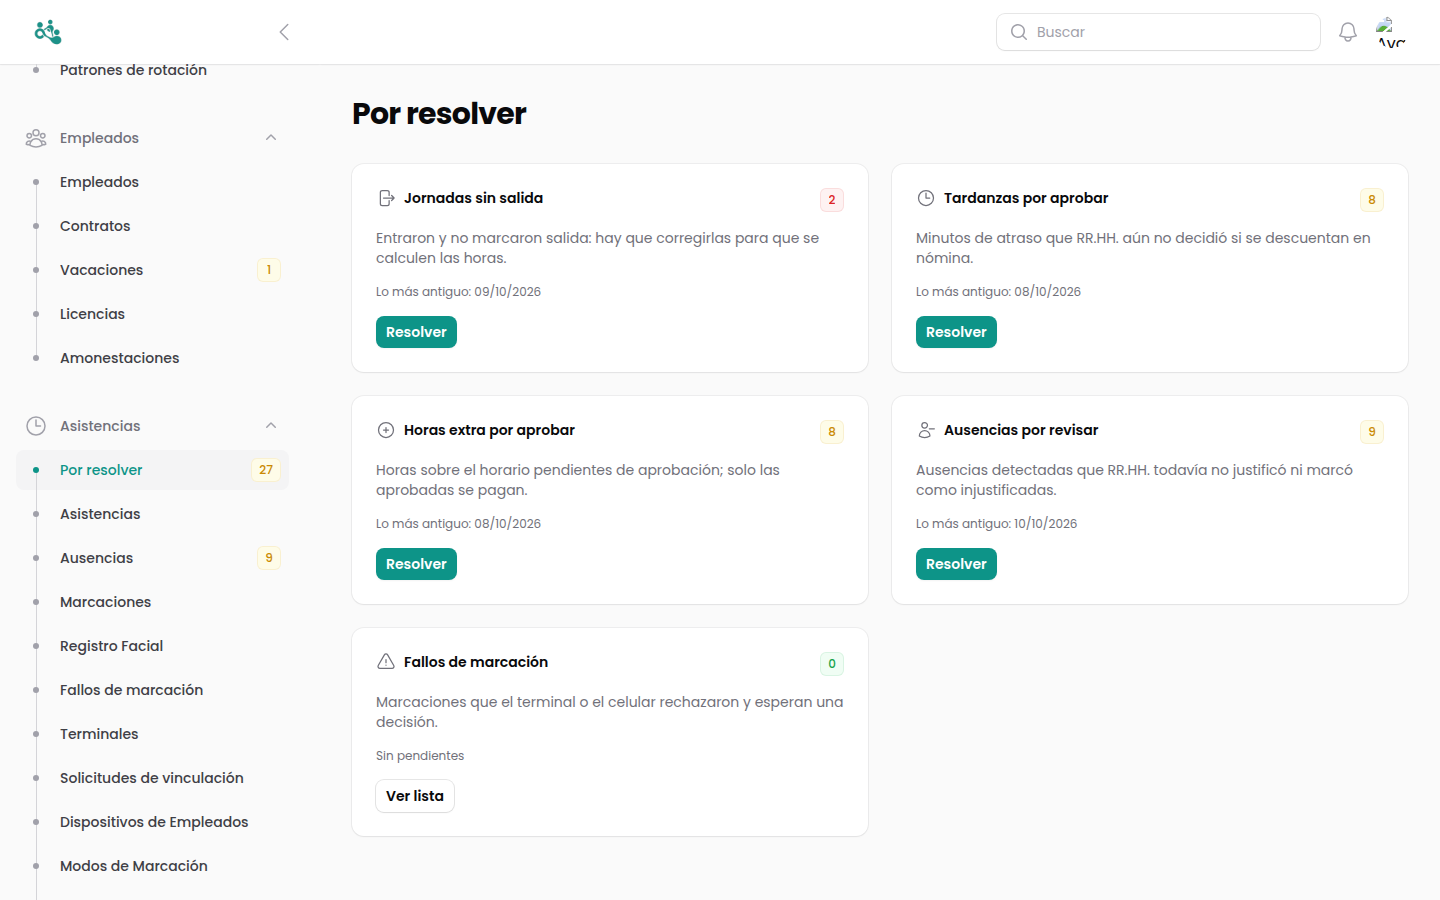
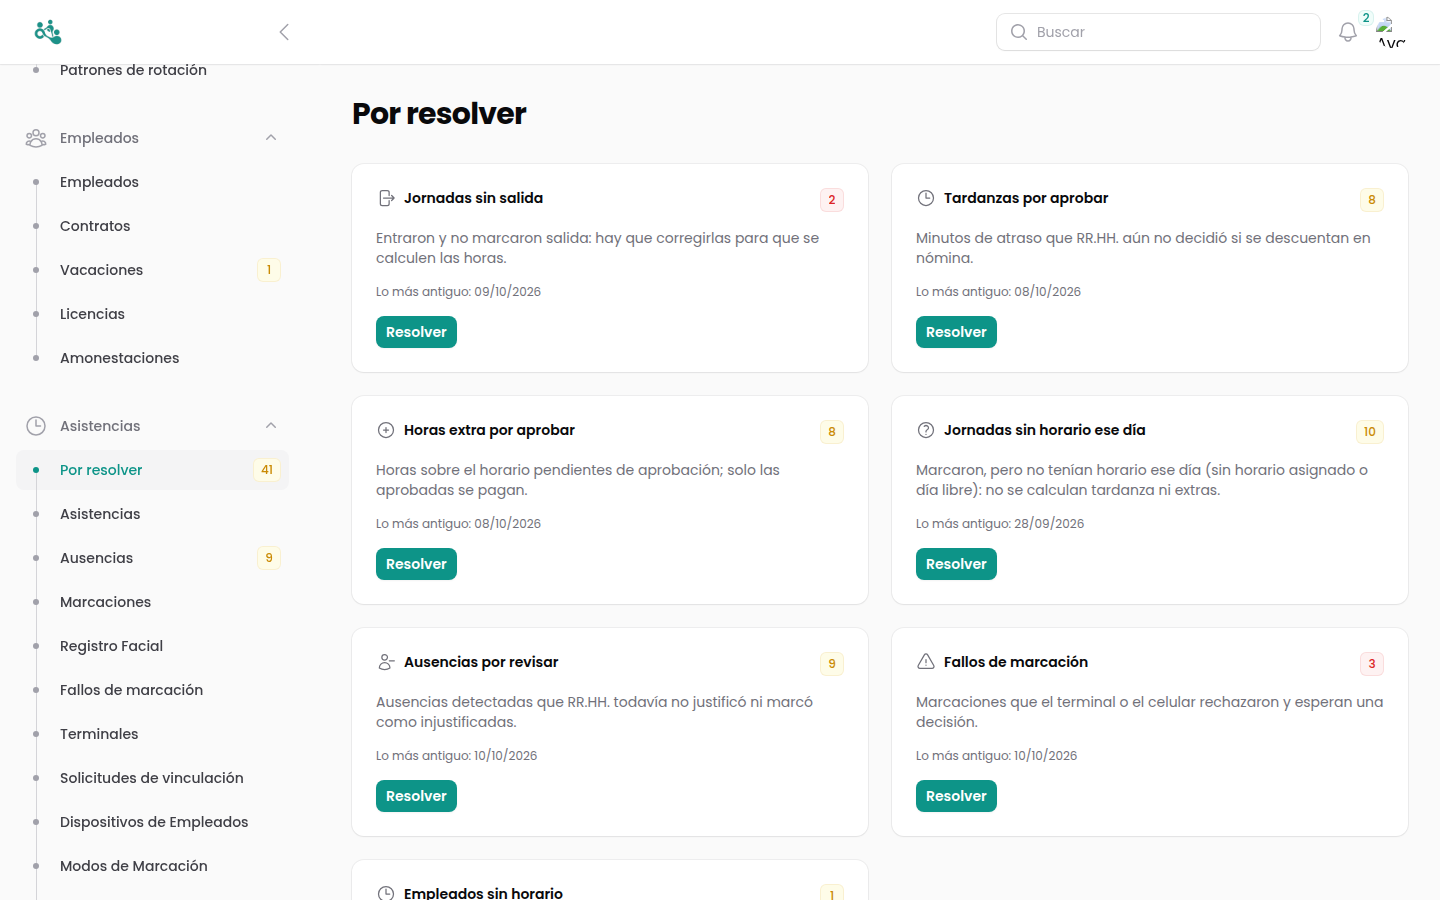
docs(horarios): capturas de las funciones nuevas y de Por resolver
Nuevas: formulario con tipo sugerido y aviso de pocos días, Duplicar y Asignar horario con sugerencia. Actualizada: Por resolver con la tarjeta de jornadas sin horario ese día.

Claude-Session: https://claude.ai/code/session_016uALGGZd5ufPtjAioqAnnP

diff --git a/resources/docs/03-horarios.md b/resources/docs/03-horarios.md
@@ -54,9 +54,13 @@ El sistema descuenta automáticamente los minutos de descanso al calcular las ho
 - **Tipo de jornada sugerido:** debajo del campo se indica el tipo que corresponde según las horas cargadas (diurno si no pasa de las 20:00 ni empieza antes de las 06:00; nocturno si algún día tiene 3,5 horas o más en la franja 20:00–06:00; mixto en el resto). Es solo una sugerencia: el tipo se elige a mano.
 - **Pocos días activos:** si el horario tiene uno o dos días activos, aparece un aviso. Quien lo tenga asignado se considera libre los demás días, así que un turno que se reparte en varios horarios por día conviene cargarlo en uno solo con todos sus días.
 
+![Formulario de un horario con el tipo de jornada sugerido y el aviso de pocos días activos](/docs-images/03-horario-formulario.png)
+
 ### Duplicar un horario
 
 La acción **Duplicar** (en el listado y en el detalle del horario) copia los días, horas y descansos con un nombre nuevo, para partir de un horario parecido en vez de armarlo desde cero. No copia los empleados asignados. Requiere permiso para crear horarios.
+
+![Ventana Duplicar horario con el nombre propuesto](/docs-images/03-horario-duplicar.png)
 
 ### Eliminar un horario
 
@@ -87,6 +91,8 @@ Las ausencias no se generan hacia atrás: solo se crean automáticamente las de 
 ### Horario sugerido según las marcaciones
 
 Al abrir **Asignar horario** sobre un empleado (fila del listado de **Empleados**), si tiene al menos 3 jornadas completas (con entrada y salida) en los últimos 30 días, el sistema compara sus horas reales con los días activos de cada horario y **preselecciona el que mejor coincide**, siempre que el desvío promedio sea de 60 minutos o menos. La descripción de la ventana indica cuántas jornadas se usaron. Es solo una ayuda: se puede elegir otro horario antes de confirmar, y nunca se asigna nada sin confirmar. Un horario que tiene libres los días en que el empleado trabajó se penaliza.
+
+![Ventana Asignar horario con el horario sugerido preseleccionado](/docs-images/03-asignar-horario-sugerido.png)
 
 ### Asignar desde el listado de Empleados
 
